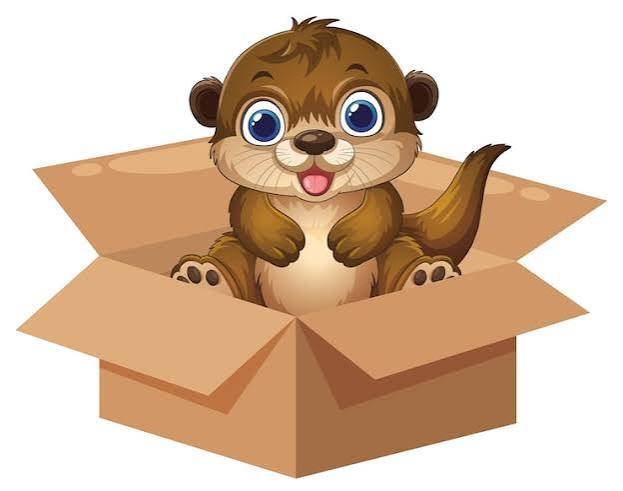
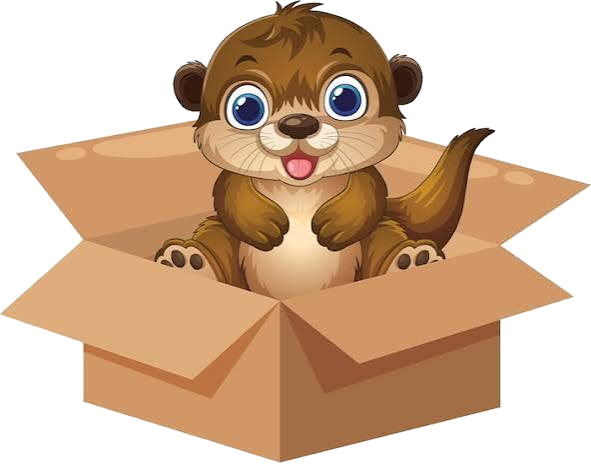
pencarian berdasarkan nama, kategori, tag dan maskot transparan

diff --git a/lib/features/catalog/catalog_screen.dart b/lib/features/catalog/catalog_screen.dart
@@ -95,6 +95,20 @@ class _CatalogScreenState extends State<CatalogScreen> {
     });
   }
 
+  // cek apakah barang cocok sama kata kunci
+  // dicari dari nama barang, nama kategori, dan tag barang
+  bool _cocokDenganKeyword(CatalogItem item) {
+    if (_keyword.isEmpty) return true;
+
+    final cocokNama = item.name.toLowerCase().contains(_keyword);
+    final cocokKategori = item.category.toLowerCase().contains(_keyword);
+    final cocokTag = item.tags.any(
+          (tag) => tag.toLowerCase().contains(_keyword),
+    );
+
+    return cocokNama || cocokKategori || cocokTag;
+  }
+
   void _retryLoad() {
     setState(() {
       _itemsStream = CatalogService().watchAvailableItems();
@@ -217,8 +231,7 @@ class _CatalogScreenState extends State<CatalogScreen> {
       final matchesCategory =
           _category == 'Semua' || item.category == _category;
 
-      return matchesCategory &&
-          item.name.toLowerCase().contains(_keyword);
+      return matchesCategory && _cocokDenganKeyword(item);
     }).toList();
 
     final textScale =
@@ -544,7 +557,7 @@ class _CatalogHeader extends StatelessWidget {
               textInputAction: TextInputAction.search,
 
               decoration: InputDecoration(
-                hintText: 'Cari nama barang...',
+                hintText: 'Cari nama, kategori, atau tag...',
 
                 prefixIcon: const Icon(Icons.search),
 

diff --git a/lib/features/catalog/data/dummy_catalog_items.dart b/lib/features/catalog/data/dummy_catalog_items.dart
@@ -1,11 +1,9 @@
 import '../catalog_item.dart';
 
-// data dummy buat testing halaman pencarian (screenshot & video trello)
-// cara pakai: ganti `const CatalogScreen()` jadi
-// `const CatalogScreen(items: dummyCatalogItems)`
 const dummyCatalogItems = <CatalogItem>[
   CatalogItem(
     id: 'dummy-1',
+    tags: ['kalkulator', 'casio', 'kuliah'],
     name: 'Calculator Casio FX-991EX',
     price: 120000,
     category: 'Elektronik',
@@ -17,6 +15,7 @@ const dummyCatalogItems = <CatalogItem>[
   ),
   CatalogItem(
     id: 'dummy-2',
+    tags: ['kalkulator', 'casio'],
     name: 'Kalkulator Casio MX-12B',
     price: 45000,
     category: 'Elektronik',
@@ -28,6 +27,7 @@ const dummyCatalogItems = <CatalogItem>[
   ),
   CatalogItem(
     id: 'dummy-3',
+    tags: ['kalkulus', 'matematika', 'kuliah'],
     name: 'Buku Kalkulus Purcell Jilid 1',
     price: 60000,
     category: 'Buku',
@@ -39,6 +39,7 @@ const dummyCatalogItems = <CatalogItem>[
   ),
   CatalogItem(
     id: 'dummy-4',
+    tags: ['headset', 'sony', 'audio'],
     name: 'Headset Sony MDR-ZX110',
     price: 85000,
     category: 'Elektronik',
@@ -50,6 +51,7 @@ const dummyCatalogItems = <CatalogItem>[
   ),
   CatalogItem(
     id: 'dummy-5',
+    tags: ['jaket', 'hoodie', 'pakaian'],
     name: 'Jaket Hoodie Hitam',
     price: 75000,
     category: 'Fashion',

diff --git a/lib/features/catalog/catalog_item.dart b/lib/features/catalog/catalog_item.dart
@@ -1,4 +1,3 @@
-
 import 'package:cloud_firestore/cloud_firestore.dart';
 
 class CatalogItem {
@@ -19,6 +18,7 @@ class CatalogItem {
     this.status = 'tersedia',
     this.userId = '',
     this.fotoBarang = const [],
+    this.tags = const [],
     this.createdAt,
     this.updatedAt,
   });
@@ -43,6 +43,7 @@ class CatalogItem {
   final String status;
   final String userId;
   final List<Map<String, dynamic>> fotoBarang;
+  final List<String> tags;
   final Timestamp? createdAt;
   final Timestamp? updatedAt;
 
@@ -67,6 +68,8 @@ class CatalogItem {
       fotoBarang: (data['fotoBarang'] as List? ?? [])
           .whereType<Map<String, dynamic>>()
           .toList(),
+      // tags disimpan sebagai list string waktu unggah barang
+      tags: (data['tags'] as List? ?? []).whereType<String>().toList(),
       createdAt: data['createdAt'] as Timestamp?,
       updatedAt: data['updatedAt'] as Timestamp?,
       sellerName: sellerName,
